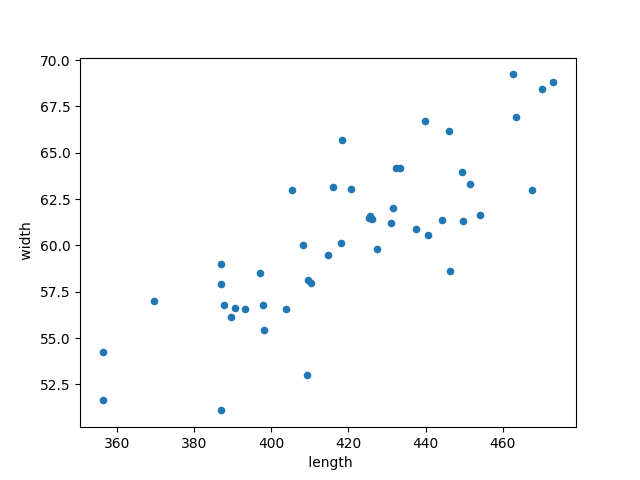
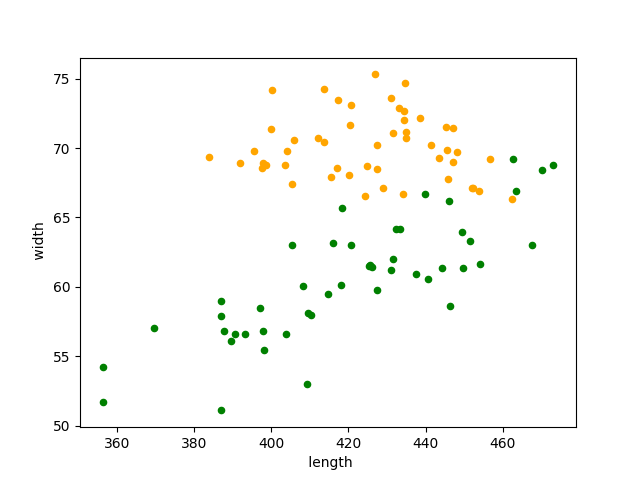
finished 2.2

diff --git a/src/plot.py b/src/plot.py
@@ -1,10 +1,18 @@
 import pandas as pd
 import matplotlib.pyplot as plt
 
-df = pd.read_csv("F:/Databases/ProbabilisticShapeModellingFS22/project-data/distances.csv")
-df.plot(kind='scatter', x=' length', y=' width').get_figure().savefig('measurements.png')
+referenceDF = pd.read_csv("F:/Databases/ProbabilisticShapeModellingFS22/project-data/distances.csv")
+gpDF = pd.read_csv("F:/Databases/ProbabilisticShapeModellingFS22/project-data/distancesGPModel.csv")
+
+ax = referenceDF.plot(kind='scatter', x=' length', y=' width', color='Green')
+gpDF.plot(ax=ax, kind='scatter', x=' length', y=' width', color='Orange').get_figure().savefig('measurements.png')
 
 # mean length 420.440909, mean width 60.529105
-print(df.mean())
+print(referenceDF.mean())
 # length squared variance 848.037875, width squared variance 18.477001
-print(df.var())
+print(referenceDF.var())
+
+# mean length 425.530941, 70.087738 mean width
+print(gpDF.mean())
+# length squared variance 376.879229, width squared variance 5.400647
+print(gpDF.var())
